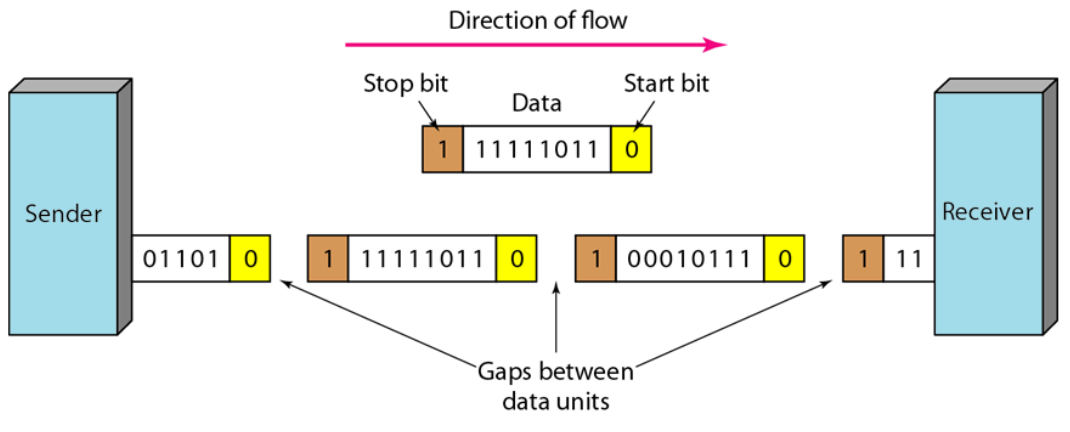
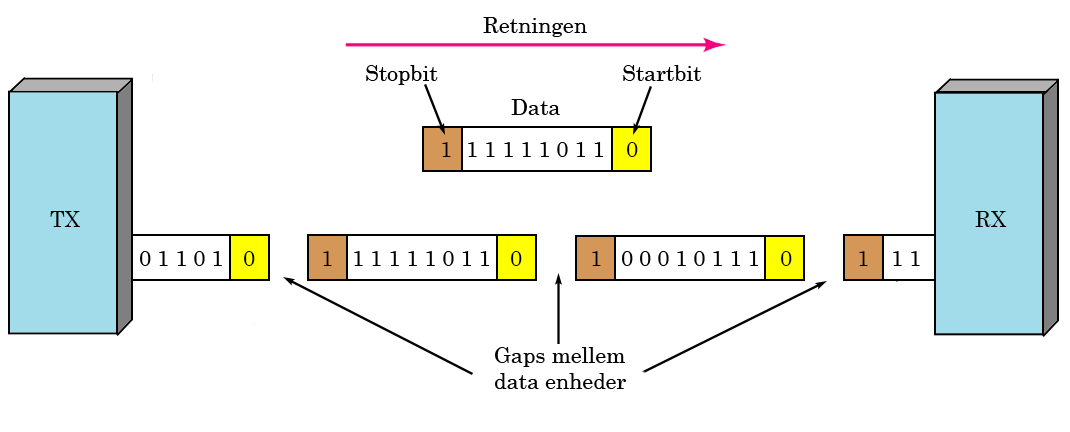
uart done

diff --git a/rapportAfsnit/dProblemloesning/UART.tex b/rapportAfsnit/dProblemloesning/UART.tex
@@ -1,8 +1,8 @@
-\subsection{Universal Asynchronous Receiver Transmitter(UART)}
-En UART er et led mellem et parallelt og serielt interface, der både modtager data(RX) og sender data(TX). Dataen sendes som bit, og kan både sendes serielt eller parallelt.\citep{Jimb02016a,Chun-zhiYin-shuiLun-yao2011}\newline 
+\subsection{Universal Asynchronous Receiver Transmitter}
+En UART er en enhed der implementerer seriel data, og det er dermed et led mellem et parallelt og et serielt interface, der både modtager data(RX) og sender data(TX). Dataen sendes som bit, og kan både sendes serielt eller parallelt.\citep{Jimb02016a,Chun-zhiYin-shuiLun-yao2011}\newline 
 Parallelt bliver flere bit overført på samme tid, hvormed et 8-bit system er nødsaget til at have 8 ledninger, hvor der i den ene ende er en RX kobling og den anden er TX kobling.\citep{Jimb02016a}\newline
-Den serielle kommunikation foregår asynkront, og kan foregå med en ledning, da kun en bit overføres af gangen. Oftest benyttes den serielle kommunikation, da denne ikke kræver så mange ledninger.  Det er nødvendigt at sætte en baudrate, da TX sender i forhold til denne og RX sampler i forhold til den forventede baudrate\fxnote{baudrate = Hvor hurtigt der sendes data (bits per sekund[bps])}. Det modtagne data gemmes ofte i en buffer, som efterfølgende videregives i form af firs-in-first-out (FIFO) princippet.\citep{Jimb02016a}\newline 
-Overførsel af data sker asynkront, som det ses på \figref{fig:asynkron}. Ved denne kommunikationsform opererer RX og TX ved to forskellige klokker. For at kunne lave dataen synkront, sættes der et startbit og et stopbit. UARTens opgave er at læse data fra FIFO parallel data, som så laves om til seriel data Dette data kan så sendes til andre enheder. Når RX i en anden enhed modtager et startbit, laves data om fra seriel til parallel data, hvorefter data kan skrives til modtager-FIFO.\citep{Jimb02016a,Chun-zhiYin-shuiLun-yao2011}
+Den serielle kommunikation foregår asynkront, og kan foregå med en ledning, da kun en bit overføres af gangen. Oftest benyttes den serielle kommunikation, da denne ikke kræver så mange ledninger.  Det er nødvendigt at sætte en baudrate\fxnote{baudrate = Hvor hurtigt der sendes data (bits per sekund[bps])}, da TX sender i forhold til denne og RX sampler i forhold til den forventede baudrate. Det modtagne data gemmes ofte i en buffer, som efterfølgende videregives i form af firs-in-first-out (FIFO).\citep{Jimb02016a}\newline 
+Overførsel af data sker asynkront, som det ses på \figref{fig:asynkron}. Ved denne kommunikationsform opererer RX og TX ved to forskellige clocks. For at kunne lave dataen synkront, sættes der et startbit og et stopbit, og alt udenfor disse overføres ikke, hvilket er illustreret på \figref{fig:asynkron}. UARTens opgave er at læse data fra FIFO parallel data, som laves om til seriel data. Dette data kan så sendes til andre enheder. Når RX i en anden enhed modtager et startbit, laves data om fra seriel til parallel data, hvorefter data kan skrives til modtager-FIFO.\citep{Jimb02016a,Chun-zhiYin-shuiLun-yao2011}
 
 \begin{figure}[H]
 	\centering
